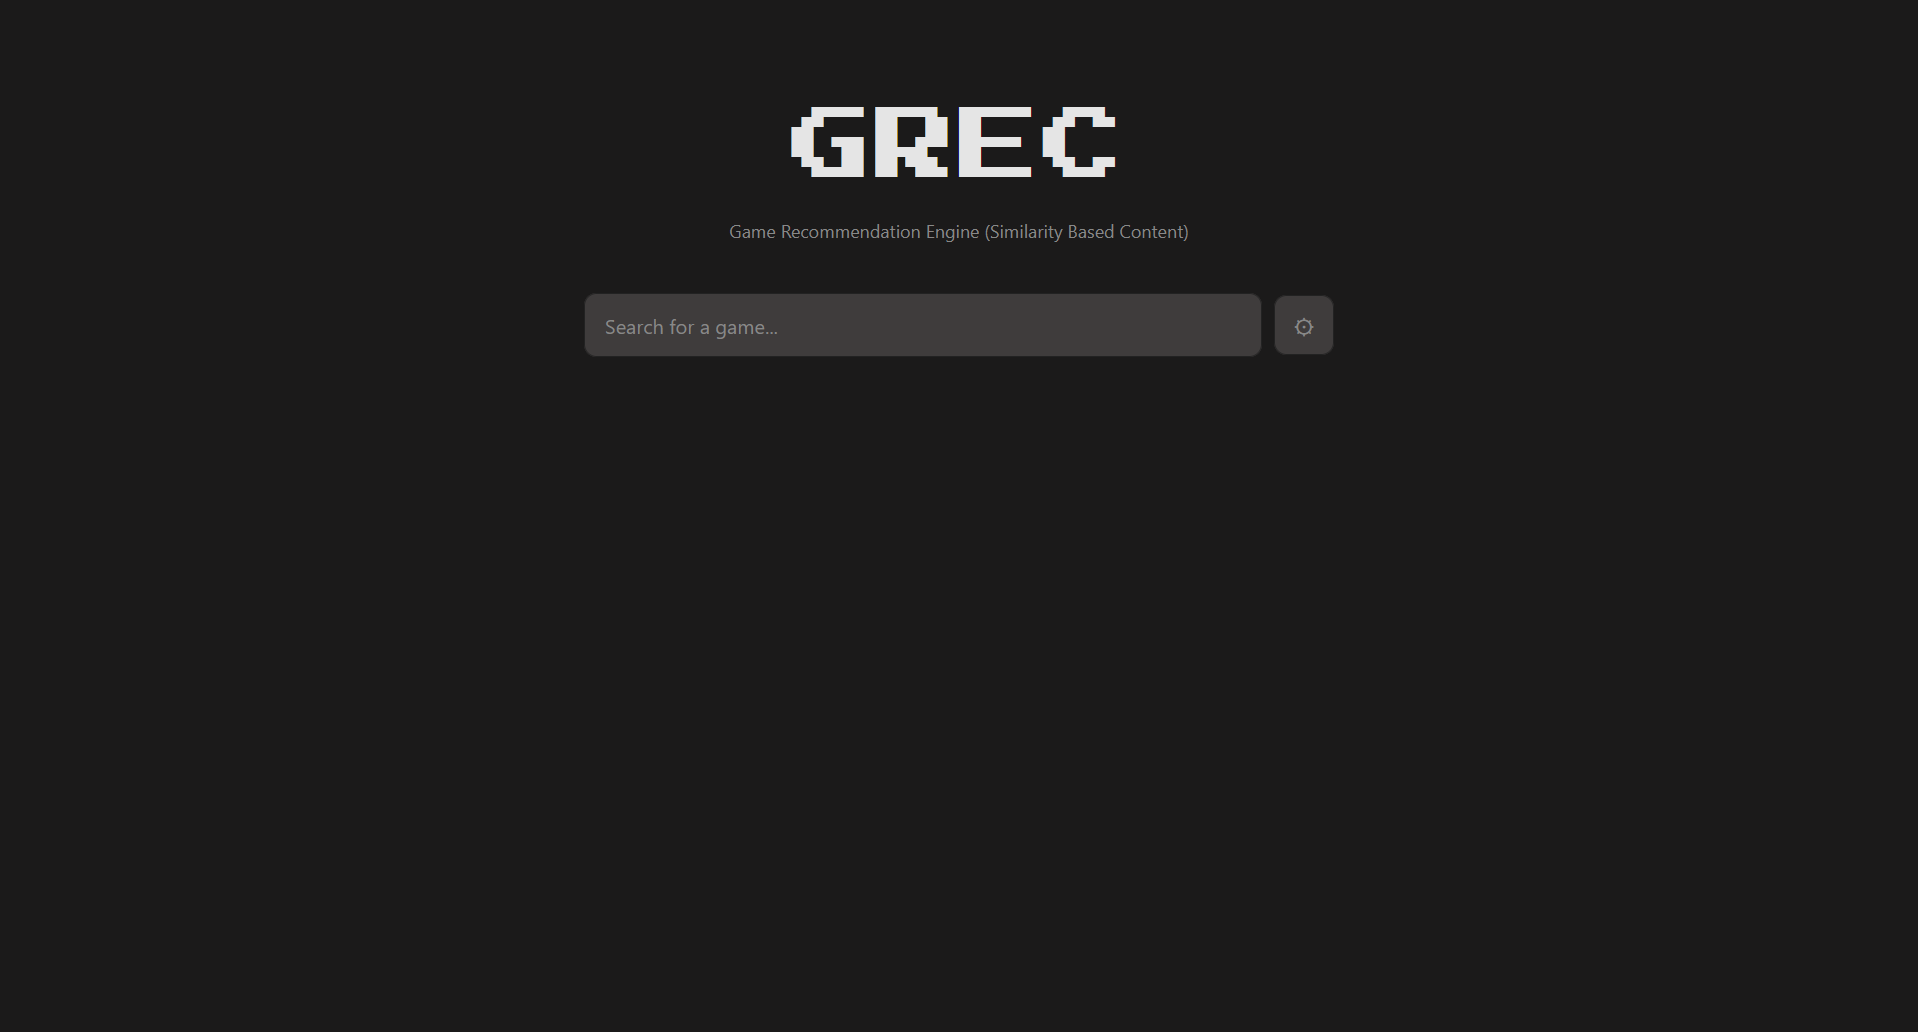
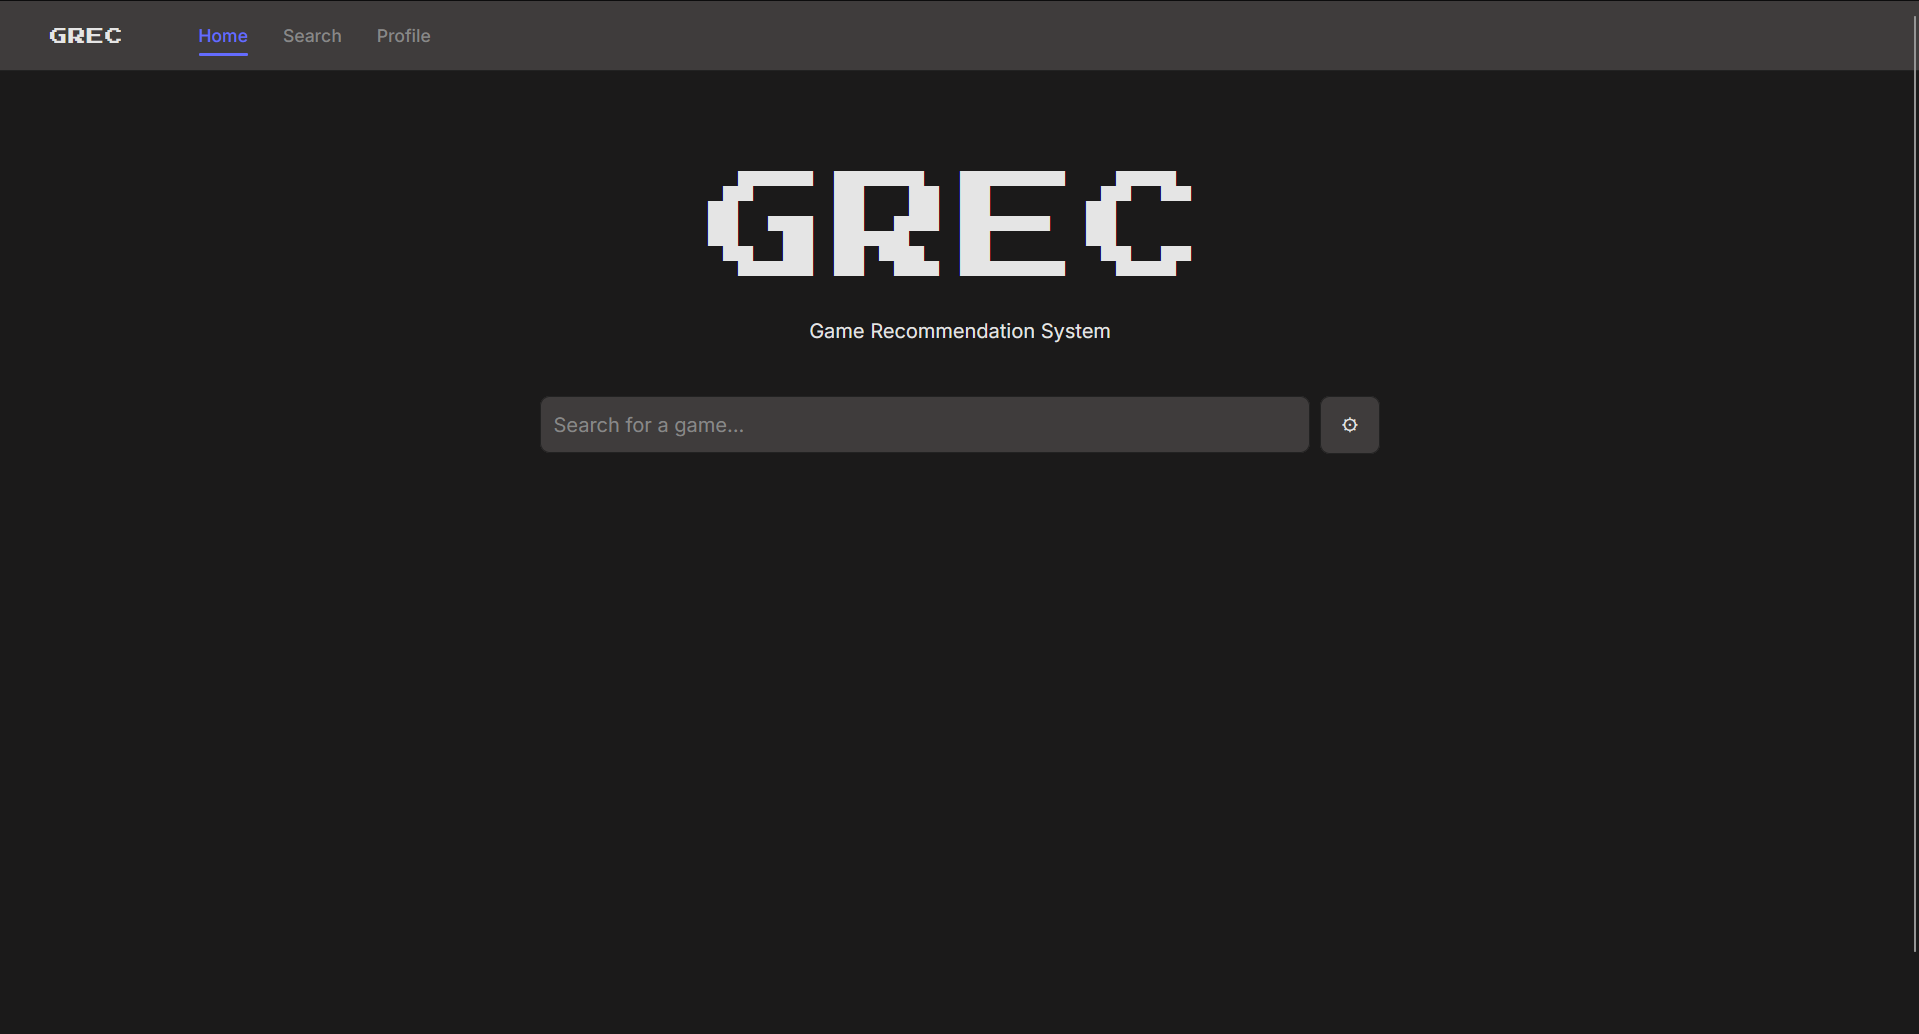
docs: update images README.md

Changed region(s): [[0.0, 0.0, 1.0, 0.4341]]

diff --git a/README.md b/README.md
@@ -1,6 +1,6 @@
 # GREC - Game Recommendation Engine
 
-GREC lets you search for a Steam game and get a ranked list of similar titles. Recommendations are driven by a hybrid engine combining **content-based filtering** (tags, genres, and descriptions), a Wilson score quality boost, and **collaborative filtering** using Alternating Least Squares (ALS).
+GREC lets you search for a Steam game and get a ranked list of similar titles. Recommendations are driven by a hybrid engine combining **content-based filtering** (tags, genres, and descriptions), a Wilson score quality boost, and **collaborative filtering** using Alternating Least Squares (ALS). Additionally, it allows you to create a profile of games you own and get recommendations based on your profile.
 
 ## How it works
 
@@ -50,7 +50,15 @@ docker compose up
 
 ### Game details
 
-![Game details](./img/game-details.png)
+![Game details](./img/game_details_1.png)
+
+![Game details](./img/game_details_2.png)
+
+### Profile
+
+![Profile](./img/library.png)
+
+![Profile](./img/library_rec.png)
 
 ## Tech stack
 
